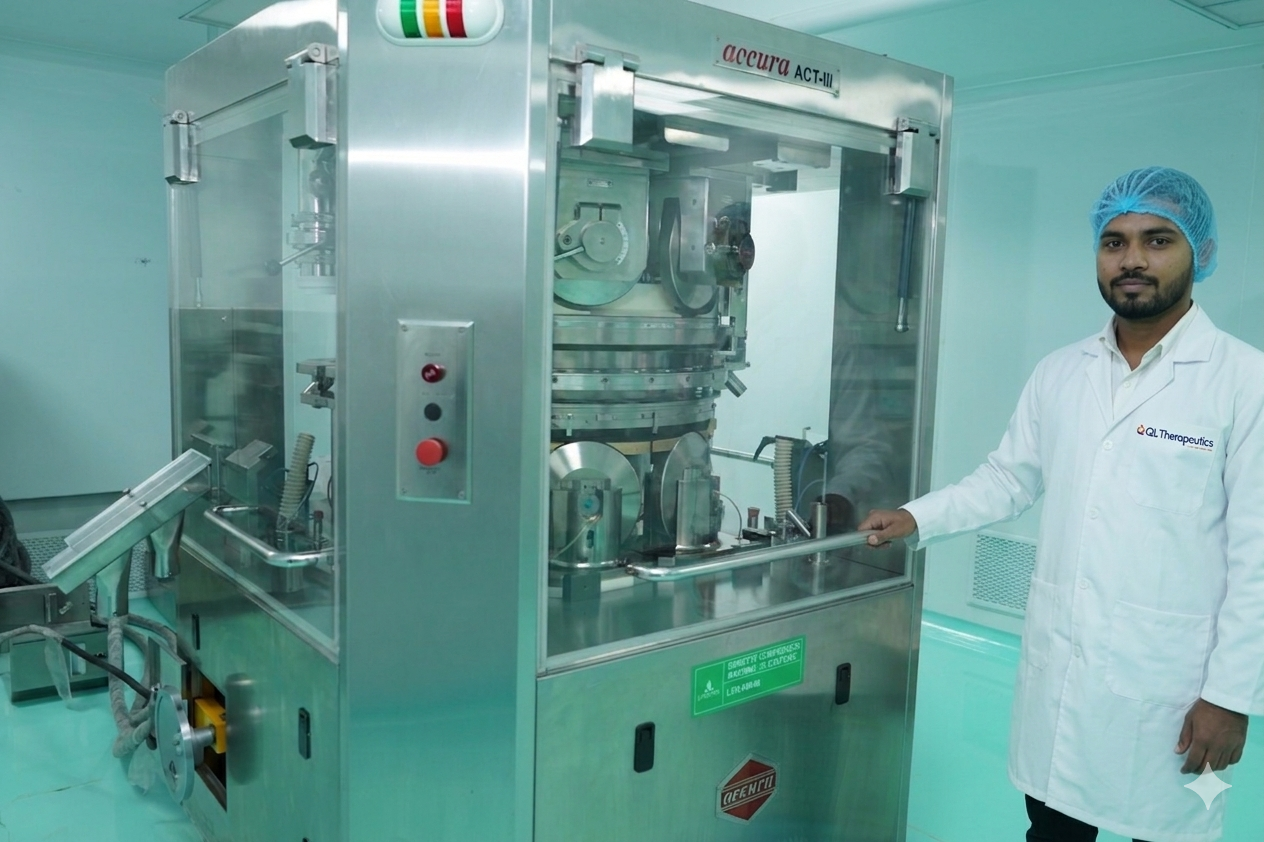
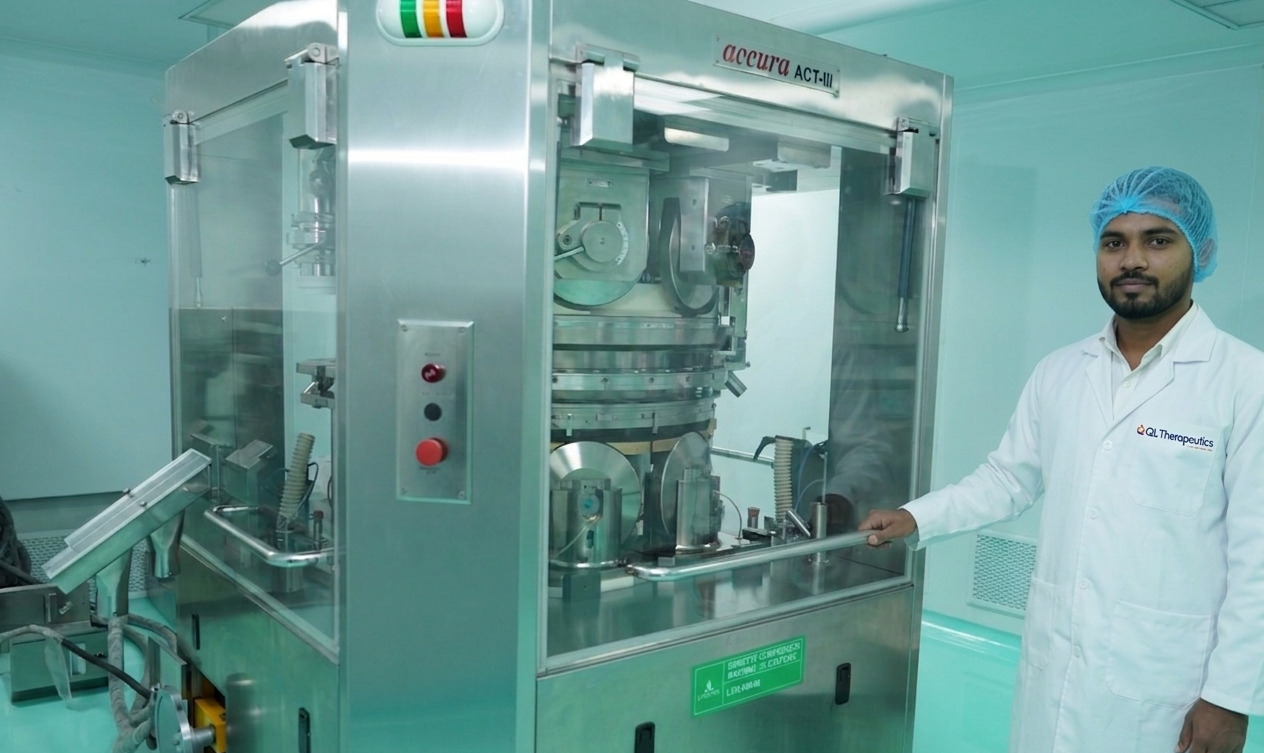
updated changes

diff --git a/src/pages/Capabilities.tsx b/src/pages/Capabilities.tsx
@@ -11,7 +11,7 @@ import {
 } from "lucide-react";
 
 import SectionHeading from "../components/SectionHeading";
-
+const showCertifications = false;
 
 // ✅ Counter Component (OUTSIDE main component)
 const Counter = ({ value, suffix }) => {
@@ -297,48 +297,51 @@ const Capabilities = () => {
   </div>
 
 </section>
-<section className="section-padding bg-slate-50 text-center">
-  <div className="max-w-7xl mx-auto px-6">
 
-    <SectionHeading
-      subtitle="Quality Standards"
-      title="Global Certifications"
-    />
 
-    {/* ✅ SCROLL CONTAINER */}
-    <div className="mt-12 overflow-x-auto">
+    {/* ✅ CONDITIONAL SECTION */}
+    {showCertifications && (
+      <section className="section-padding bg-slate-50 text-center">
+        <div className="max-w-7xl mx-auto px-6">
 
-      {/* ✅ CENTER ALIGN FIX */}
-      <div className="flex items-center justify-center gap-10 min-w-max mx-auto">
-
-        {[
-          { src: "/who.png", alt: "WHO GMP" },
-          { src: "/usfda.png", alt: "US FDA" },
-          { src: "/halal.png", alt: "Halal" },
-          { src: "/kosher.png", alt: "Kosher" },
-          { src: "/haccp.png", alt: "HACCP" },
-          { src: "/iso9001.png", alt: "ISO 9001" },
-          { src: "/iso22000.png", alt: "ISO 22000" },
-          { src: "/fssai.png", alt: "fssai" },
-          { src: "/ayush.png", alt: "ayush" }
-        ].map((logo, idx) => (
-
-          <img
-            key={idx}
-            src={logo.src}
-            alt={logo.alt}
-            className="h-12 sm:h-14 md:h-16 lg:h-20 object-contain flex-shrink-0"
+          <SectionHeading
+            subtitle="Quality Standards"
+            title="Global Certifications"
           />
 
-        ))}
+          {/* SCROLL CONTAINER */}
+          <div className="mt-12 overflow-x-auto">
 
-      </div>
+            <div className="flex items-center justify-center gap-10 min-w-max mx-auto">
 
-    </div>
+              {[
+                { src: "/who.png", alt: "WHO GMP" },
+                { src: "/usfda.png", alt: "US FDA" },
+                { src: "/halal.png", alt: "Halal" },
+                { src: "/kosher.png", alt: "Kosher" },
+                { src: "/haccp.png", alt: "HACCP" },
+                { src: "/iso9001.png", alt: "ISO 9001" },
+                { src: "/iso22000.png", alt: "ISO 22000" },
+                { src: "/fssai.png", alt: "FSSAI" },
+                { src: "/ayush.png", alt: "AYUSH" }
+              ].map((logo, idx) => (
 
-  </div>
-</section>
+                <img
+                  key={idx}
+                  src={logo.src}
+                  alt={logo.alt}
+                  className="h-12 sm:h-14 md:h-16 lg:h-20 object-contain flex-shrink-0"
+                />
 
+              ))}
+
+            </div>
+
+          </div>
+
+        </div>
+      </section>
+)} 
 
 {/* MANUFACTURING APPROACH - PREMIUM */}
 <section className="relative min-h-[70vh] lg:h-[90vh] overflow-hidden">
